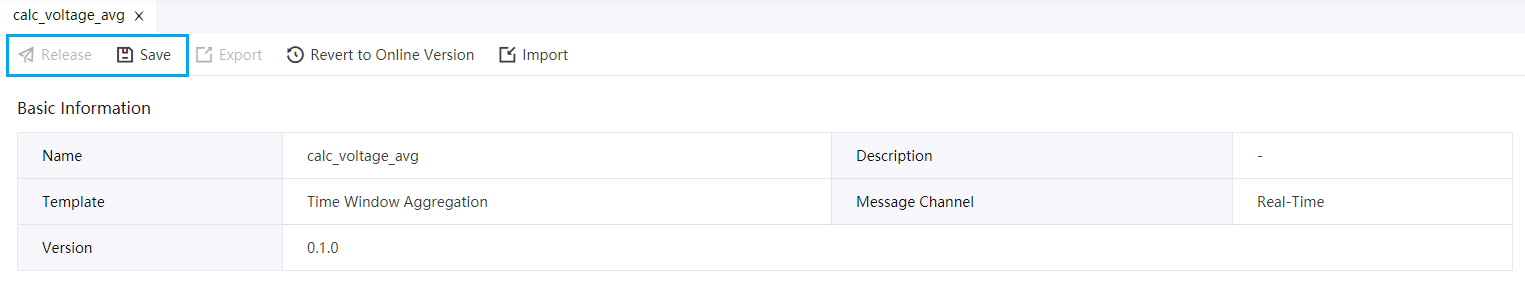
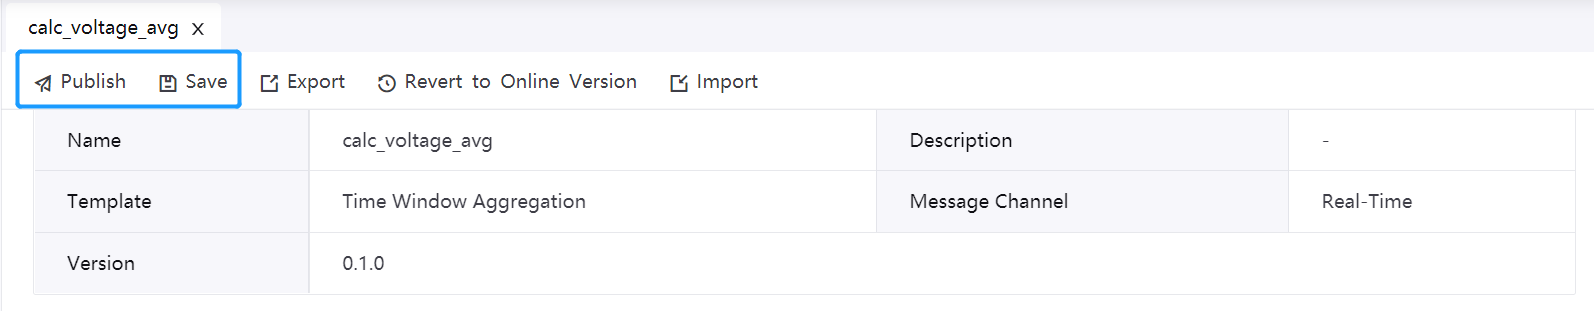
Update Tutorial

diff --git a/3_Data_Management/lab_tutorial/303-2_calculating_average_voltage.md b/3_Data_Management/lab_tutorial/303-2_calculating_average_voltage.md
@@ -34,9 +34,10 @@ If your OU has not installed the Data Calculation Templates, you need first inst
 
 ## Step 2: Creating a Stream Data Processing Job
 
-1. Log in to the EnOS Management Console and click **Stream Data Processing > Stream Development**.
-2. Click the **+** icon above the stream processing job list to open the **New Stream** window.
-3. For **Method**, select **New** to create a stream data processing job.
+1. Log in to the EnOS Management Console and click **Stream Processing > Pipeline Designer**.
+2. Click the **+** icon above the stream processing job list to open the **New Pipeline** window.
+3. For **Pipeline Type**, select **General**.
+4. For **Method**, select **New** to create a stream data processing job.
 5. Enter the name and description of the stream processing job.
 6. For **Template**, select **Time Window Aggregation**.
 7. For **Version**, select **0.1.0**.
@@ -44,11 +45,9 @@ If your OU has not installed the Data Calculation Templates, you need first inst
 
 <img src="media/create_stream.png" style="zoom: 80%;" />
 
-
-
 ## Step 3: Configuring the Stream Data Processing Job
 
-In the **Window Strategy** section, provide the following.
+In the **Window Policy** section, complete the following configuration.
 
 | Field           | Value           | Description                                                  |
 | --------------- | --------------- | ------------------------------------------------------------ |
@@ -73,8 +72,7 @@ See the following example of the completed configuration:
 
 ![](media/stream_config.png)
 
-For more information about the *Time Window Aggregation* template, see [Configuring a Time Window Data Aggregation Job](https://support.envisioniot.com/docs/data-asset/en/latest/howto/streaming/configuring_ai_template.html).
-
+For more information about the *Time Window Aggregation* template, see [Configuring a Time Window Data Aggregation Job](https://support.envisioniot.com/docs/stream-processing/en/latest/configuring_ai_template.html).
 
 
 ## Step 4: Publishing the Stream Data Processing Job
@@ -83,7 +81,7 @@ After the stream data processing job configuration is completed, you can publish
 
 1. Click **Save** to save the configuration of the stream data processing job.
 
-2. Click **Release** to publish the job online.
+2. Click **Publish** to publish the job online.
 
    ![](media/publishing_stream.png)
 
@@ -95,13 +93,13 @@ Before starting the stream processing job, make sure that the corresponding syst
 
 Follow the steps below to start the stream processing job.
 
-1. Open the **Stream Operation** page, and check the status of the system pipelines under the **System Pipeline** tab.
+1. Open the **Pipeline Operation** page, and check the status of the system pipelines under the **System Pipeline** tab.
 
-2. In the list of system pipelines, click the **Start** icon ![start_icon](https://support.envisioniot.com/docs/data-asset/en/latest/_images/start_icon1.png) to start the required system pipeline.
+2. In the list of system pipelines, click the **Start** icon to start the required system pipeline.
 
    ![](media/starting_system_pipeline.png)
 
-3. Once the system pipeline has started, you can start your stream processing job. On the **Stream Operation** page, find the data processing job you have published under the **User Pipeline** tab, and click the **Start** icon ![](media/start_icon.png) to start the job. See the following example:
+3. Once the system pipeline is started and running, you can start your stream processing job. On the **Pipeline Operation** page, find the data processing job you have published under the **User Pipeline** tab, and click the **Start** icon to start the pipeline. See the following example:
 
    ![](media/starting_stream.png)
 
@@ -113,7 +111,7 @@ The data processing job will start running if there is no error.
 
 ## Step 6: Viewing the Job Running Results
 
-On the **Stream Operation** page, find the running stream data processing job under the **User Pipeline** tab, and click the job name to open the **Stream Details** page. You can view the following information about the job.
+On the **Pipeline Operation** page, find the running stream data processing job under the **User Pipeline** tab, and click the job name to open the **Stream Details** page. You can view the following information about the job.
 
 - **Summary**: View the summary of the running stream, such as the count of processed data records and the record throughput.
 
